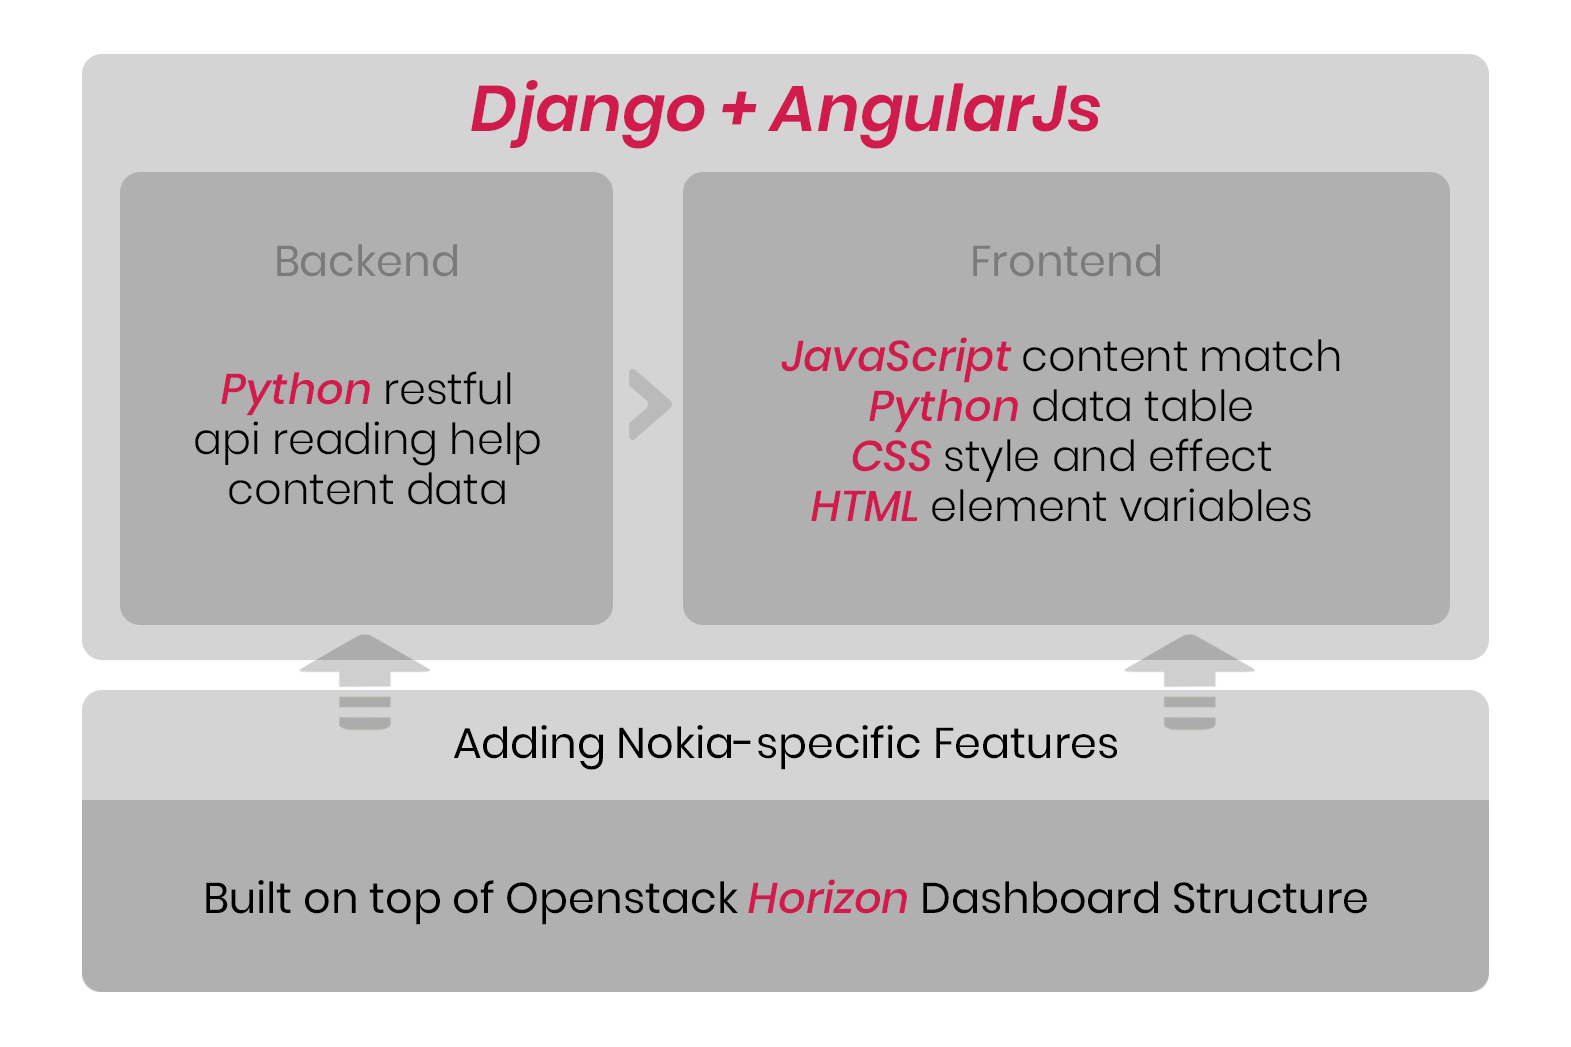
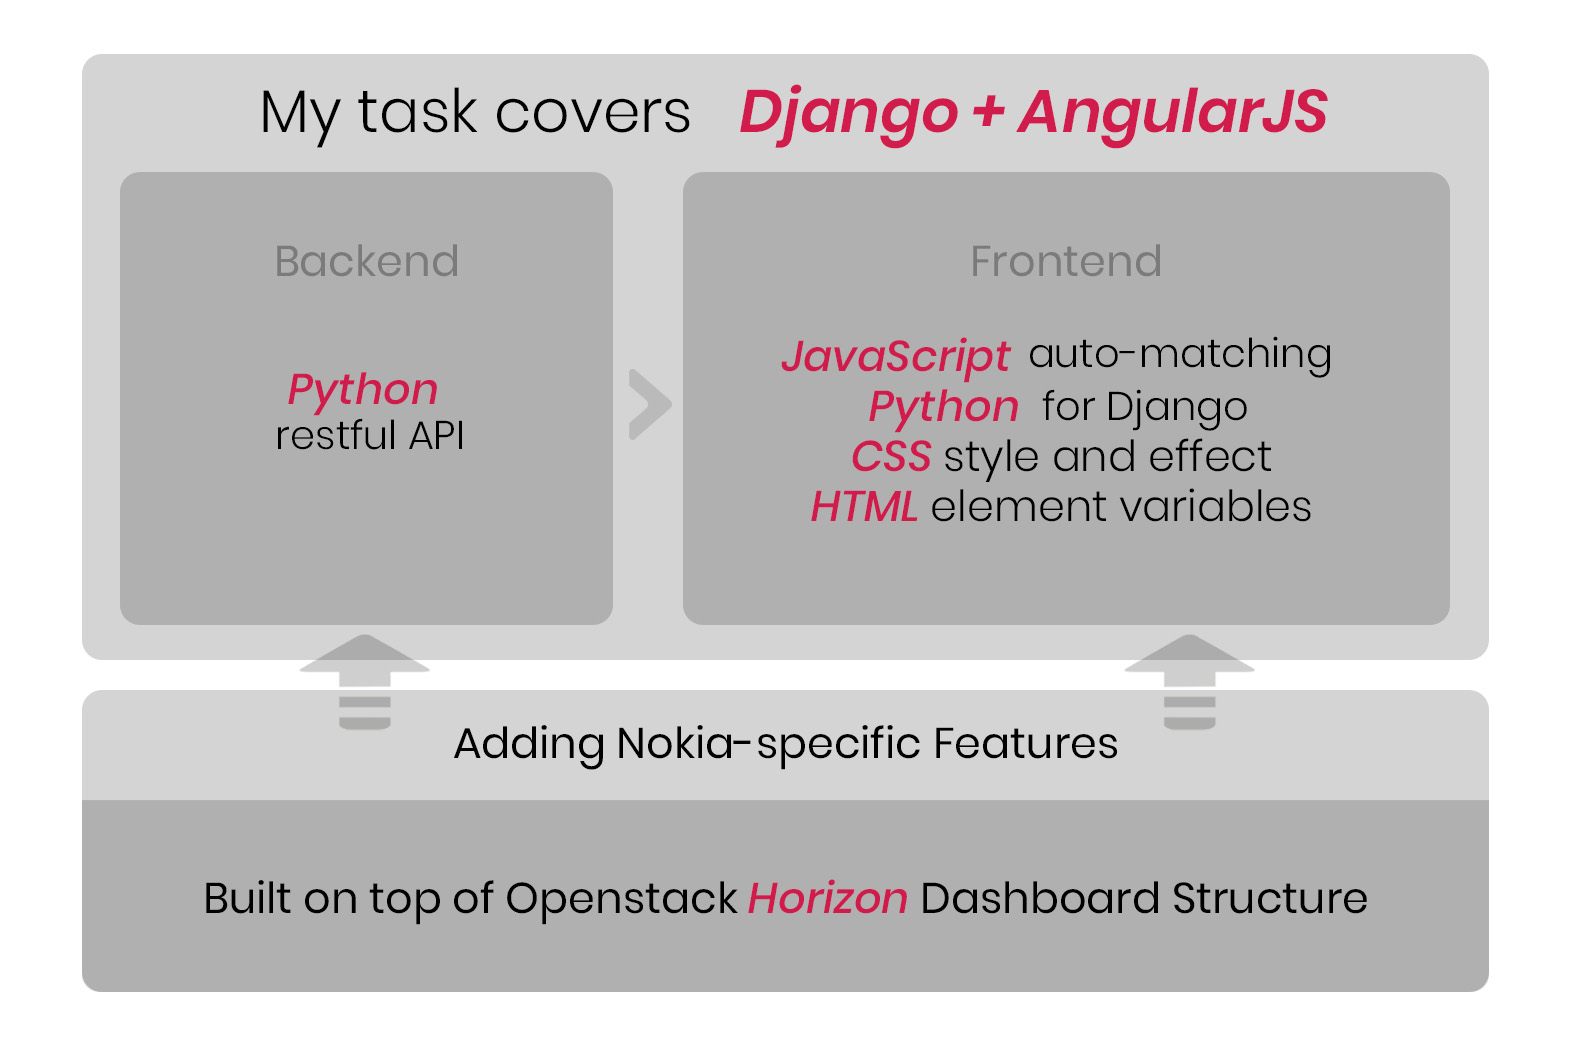
nokia confidential

Changed region(s): [[0.156, 0.0611, 0.8421, 0.1528], [0.1248, 0.3362, 0.3431, 0.489], [0.655, 0.3056, 0.8733, 0.4279]]

diff --git a/project_nokia.html b/project_nokia.html
@@ -277,7 +277,7 @@
 
                                                 <div class="entry">
                                                     <p>It was quite a challenging but exciting experience to work as a <em><b style="color: rgb(208,27,76);">Full-stack Developer</b></em> at Nokia. I worked on everything related to the <em><b style="color: rgb(208,27,76);">Context Sensitive Help Infotips</b></em> for a cloud management dashboard. It covered demand defining, designing, and especially building everything out. I really learned a lot a lot and gradually got familiar with the whole process of web development; especially, I'm comfortable with front-end now. However, I would never say, hey I'm a developer; I'm always a DESIGNER ❤ The development skills are crucial as well, just like the pen in my hand.</p> 
-                                                    <p>Since details are not allowed for demo, I implemented on this page the infotip beside the title, which is a tiny part as a fake glance at the massive project. But you got the idea~</p>
+                                                    <p>Due to the confidential rule, I implemented on this page a fake demo of infotip following the title, which provides a rough glance about what it was about.</p>
                                                 </div><!--End entry-->
                  
 
@@ -292,17 +292,8 @@
                                                         <li class="gallery-info-property-li">
                                                             <h3 class="gallery-info-property-item gallery-info-property-tit" style="color: rgb(208,27,76);">Generically Expanding</h3>
                                                             <div class="gallery-info-property-item gallery-info-property-con">
-                                                                The basic requirement is that nothing is hard-coded, so in case of expanding the infotip to whatever other panels or columns, almost nothing needs to be modified. I achieved this by filename, title and help text auto-matching.
+                                                                The basic requirement is that nothing is hard-coded, so in case of expanding the infotip to wherever else, almost nothing is supposed to be modified. I achieved this auto-matching by JavaScript.
                                                             </div>
-                                                        </li>
-                                                        <br><br><br><br>
-                                                        <li class="gallery-info-property-li">
-                                                            <h3 class="gallery-info-property-item gallery-info-property-tit">Location</h3>
-                                                            <div class="gallery-info-property-item gallery-info-property-con">Nokia HQ Mobile Networks, Finland</div>
-                                                        </li>
-                                                        <li class="gallery-info-property-li">
-                                                            <h3 class="gallery-info-property-item gallery-info-property-tit">Time</h3>
-                                                            <div class="gallery-info-property-item gallery-info-property-con">Jun. - Aug. 2018</div>
                                                         </li>
                                                     </ul>
                                                 </div>
@@ -317,24 +308,7 @@
                                                 
                                                         
                                                                                 
-                                                        
-
-                                                        <div class="list-layout-col list-layout-col1 clearfix">
-                                                                                            
-                                                            <div class="list-layout-col1-item list-layout-item" style="">
-                                                                <div class="list-layout-inside">
-                                                                    <div class="single-image mouse-over" data-lightbox="true">
-                                                                        <a title="" class="lightbox-item" href="img/nokia_02.jpg" data-size="785x523">
-                                                                            <span class="ux-lazyload-wrap" style=" padding-top: 66.624203821656%;">
-                                                                                <img src="img/blank.gif" data-src="img/nokia_02.jpg" width="785" height="523" class="list-layout-img gallery-images-img ux-lazyload-img lazy">
-                                                                            </span>
-                                                                        </a>
-                                                                    </div>
-                                                                </div><!--End list-layout-inside--> 
-                                                            </div><!--End list-layout-item-->
-                                                        </div>
-
-                                                        <div class="list-layout-col list-layout-col1 clearfix">
+                                                        <div class="list-layout-col list-layout-col1 clearfix" style="padding-top: 210px;">
                                                                                             
                                                             <div class="list-layout-col1-item list-layout-item" style="">
                                                                 <div class="list-layout-inside">
@@ -349,14 +323,15 @@
                                                             </div><!--End list-layout-item-->
                                                         </div>
 
-                                                        <div class="list-layout-col list-layout-col1 clearfix">
+
+                                                        <div class="list-layout-col list-layout-col1 clearfix" style="padding-top: 20px;">
                                                                                             
                                                             <div class="list-layout-col1-item list-layout-item" style="">
                                                                 <div class="list-layout-inside">
                                                                     <div class="single-image mouse-over" data-lightbox="true">
-                                                                        <a title="" class="lightbox-item" href="img/nokia_06.jpg" data-size="785x523">
+                                                                        <a title="" class="lightbox-item" href="img/nokia_02.jpg" data-size="785x523">
                                                                             <span class="ux-lazyload-wrap" style=" padding-top: 66.624203821656%;">
-                                                                                <img src="img/blank.gif" data-src="img/nokia_06.jpg" width="785" height="523" class="list-layout-img gallery-images-img ux-lazyload-img lazy">
+                                                                                <img src="img/blank.gif" data-src="img/nokia_02.jpg" width="785" height="523" class="list-layout-img gallery-images-img ux-lazyload-img lazy">
                                                                             </span>
                                                                         </a>
                                                                     </div>
@@ -364,26 +339,42 @@
                                                             </div><!--End list-layout-item-->
                                                         </div>
 
-                                                        <div class="list-layout-col list-layout-col1 clearfix">
-                                                                                            
-                                                            <div class="list-layout-col1-item list-layout-item" style="">
-                                                                <div class="list-layout-inside">
-                                                                    <div class="single-image mouse-over" data-lightbox="true">
-                                                                        <a title="" class="lightbox-item" href="img/nokia_07.jpg" data-size="785x523">
-                                                                            <span class="ux-lazyload-wrap" style=" padding-top: 66.624203821656%;">
-                                                                                <img src="img/blank.gif" data-src="img/nokia_07.jpg" width="785" height="523" class="list-layout-img gallery-images-img ux-lazyload-img lazy">
-                                                                            </span>
-                                                                        </a>
-                                                                    </div>
-                                                                </div><!--End list-layout-inside--> 
-                                                            </div><!--End list-layout-item-->
-                                                        </div>
+                                                        
+
+                                                        
 
                                                 </div><!--End single-gallery-wrap-inn-->
 
                                             </div><!--End blog-unit-gallery-wrap-->
 
                                         </div><!--End single-gallery-col2-->
+
+                                    </article>
+
+                                    <!--Property wrap-->
+                                    <div class="container gallery-property">
+
+                                        <ul class="gallery-info-property row">
+                                            <li class="gallery-info-property-li col-md-3 col-sm-3">
+                                                <h3 class="gallery-info-property-item gallery-info-property-tit">Type</h3>
+                                                <div class="gallery-info-property-item gallery-info-property-con">Responsible Task</div>
+                                            </li>
+                                            <li class="gallery-info-property-li col-md-3 col-sm-3">
+                                                <h3 class="gallery-info-property-item gallery-info-property-tit">Location</h3>
+                                                <div class="gallery-info-property-item gallery-info-property-con">Nokia HQ, Finland</div>
+                                            </li>
+                                            <li class="gallery-info-property-li col-md-3 col-sm-3">
+                                                <h3 class="gallery-info-property-item gallery-info-property-tit">Department</h3>
+                                                <div class="gallery-info-property-item gallery-info-property-con">Mobile Networks</div>
+                                            </li>
+                                            <li class="gallery-info-property-li col-md-3 col-sm-3">
+                                                <h3 class="gallery-info-property-item gallery-info-property-tit">Time</h3>
+                                                <div class="gallery-info-property-item gallery-info-property-con">Jun. - Aug. 2018</div>
+                                            </li>
+
+                                        </ul>
+
+                                    </div>
 
                                     <!--Post Navi-->
                                     <div class="blog-unit-meta-bottom">
@@ -397,8 +388,6 @@
                                             </div>
                                         </nav>
                                     </div><!--End blog-unit-meta-bottom-->
-
-                                    </article>
 
                                 </div><!-- End #content_wrap-->
 
